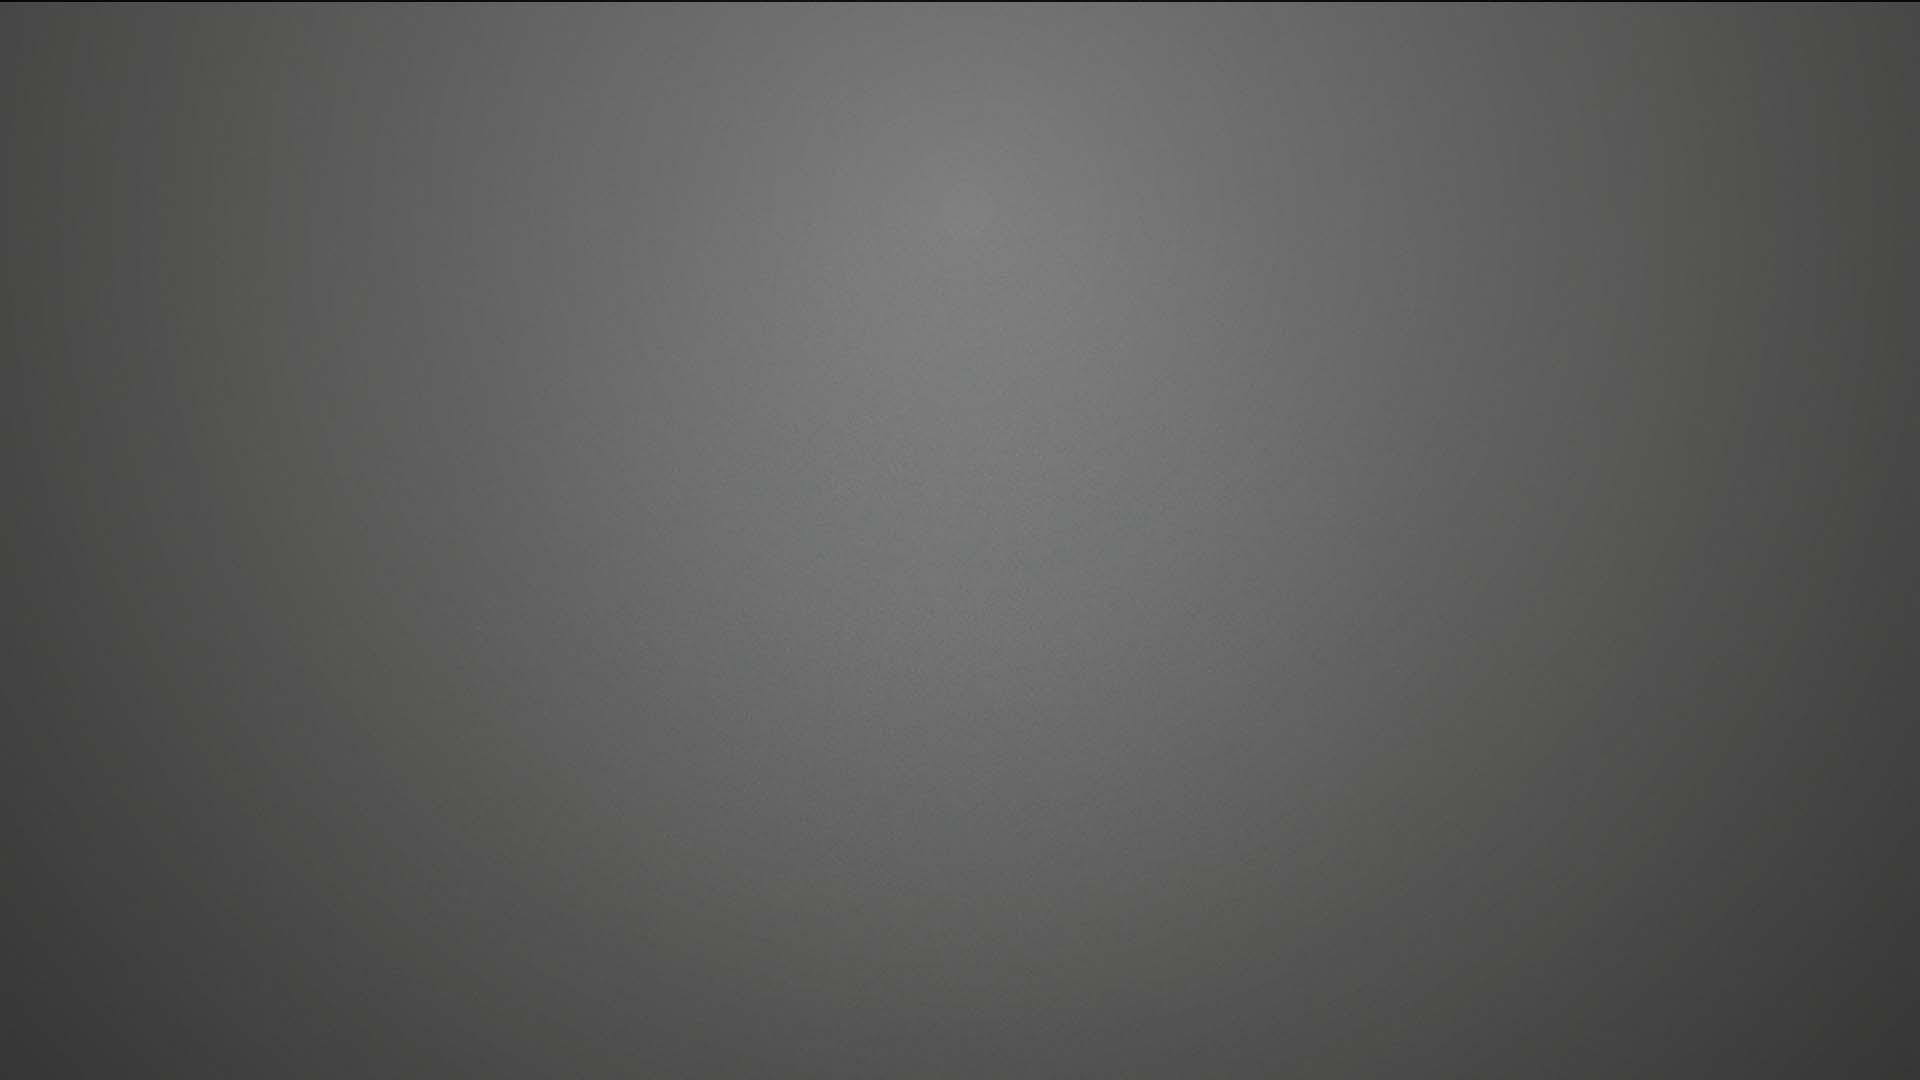
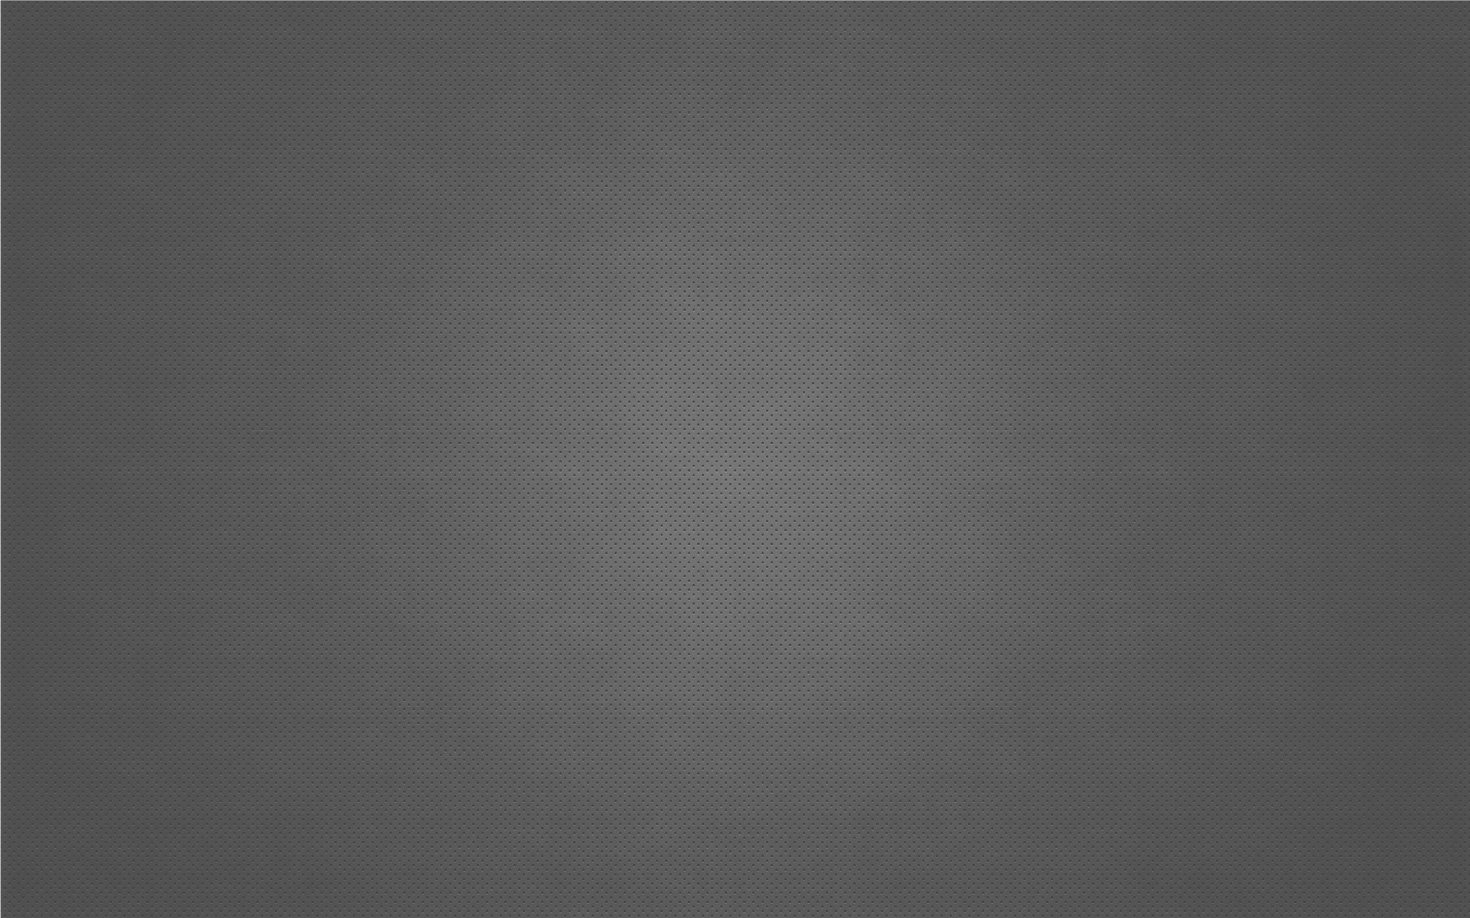
update progressing splash changes and fix major bugs

diff --git a/remenis/core/templates/splash.html b/remenis/core/templates/splash.html
@@ -1,29 +1,40 @@
 {% extends "remenis_base.html" %}
 
-        {% block inside_body %}
-        background="/static/homepage_background.jpg"
+        {% block head_extra %}
+        <style type="text/css">
+            .background {
+                background:					#000000 url(/static/homepage_background.jpg) no-repeat top center fixed;
+                -webkit-background-size:	cover;
+                -moz-background-size:		cover;
+                -o-background-size:			cover;
+                background-size:			cover;
+                background-clip:			border-box;
+                background-origin:			padding-box;
+            }
+        </style>
         {% endblock %}
 
         {% block splash %}
-        <div style="text-align: center; margin-left: auto; margin-right: auto; margin-bottom: 50px; width: 630px;">
+        <div style="text-align: center; margin-left: auto; margin-right: auto; margin-top: -20px; margin-bottom: 20px; width: 630px;">
             <img src="/static/remenis_logo.png"/>
         </div>
-        <div style="text-align: center; margin-left: auto; margin-right: auto; background: url('/static/homepage_box.png'); width: 630px; height: 462px;">
-            <br><br><br><br>
-            <p style="font-size: 36px; color: #FFFFFF;">A collection of your life stories.</p>
-            <br>
-            <p style="font-size: 25px; color: #FFFFFF; line-height:150%;">
+        <div style="text-align: center; margin-left: auto; margin-right: auto; background: url('/static/homepage_box.png'); width: 458px; height: 297px;">
+            <br><br>
+            <p style="font-size: 24px; color: #FFFFFF; margin-bottom: 20px">A collection of all your life stories.</p>
+            <p style="font-size: 18px; color: #FFFFFF; line-height:120%;">
             Invite your friends to share their<br>favorite stories about <i>you.</i>
             </p>
-            <br><br><br>
-            <p style="font-size: 25px; color: #808080; line-height:150%;">
+            <br><br>
+            <p style="font-size: 17px; color: #808080; line-height:150%;">
             Sign up now to get advanced notice and<br>become one of the private beta testers.
             </p>
-            <br>
             <form class="form-search" method="post" name="joinForm">
-                <input type="text" class="input-xlarge" name="email" placeholder="email address">
+                <input type="text" class="input-large" name="email" placeholder="email address">
                 <button type="submit" class="btn btn-primary btn-medium">&nbsp;Join&nbsp;</button>
             </form>
+        </div>
+        <div style="text-align: center; margin-left: auto; margin-right: auto; margin-top: 20px; width: 630px;">
+            <img src="/static/homepage_steps.png"/>
         </div>
         {% endblock %}
 

diff --git a/remenis/core/templates/profile.html b/remenis/core/templates/profile.html
@@ -14,13 +14,15 @@
         <div class="row-fluid">
             <a class="span1" href="/{{ story.authorid.fbid }}" style="margin-top: 10px; margin-right: -10px;"><img src="https://graph.facebook.com/{{ story.authorid.fbid }}/picture?type=square" height="50" width="50" style="border-radius: 5px; -moz-border-radius: 5px; -khtml-border-radius: 5px; -webkit-border-radius: 5px;" /></a>
             <!--story table-->
-            <table class="table table-bordered span7" style="margin-bottom: 40px">
+            <table class="table table-bordered span7" style="margin-bottom: 40px;">
                 <tr><td>
+                    <div align="right" style="width: 100%">
                     <p>
                         <a href="/{{ story.authorid.fbid }}"><strong>{{ story.authorid.full_name }}</strong></a>
                         <span style="color: grey;"> wrote </span>
                         <a href="/story/{{ story.id }}"><strong style="color: blue;">{{ story.title }}</strong></a>
                     </p>
+                    </div>
                     {% if story.authorid.fbid == userid %}
                     <div class="btn-group pull-right" style="margin-top: -30px;">
                         <a class="btn dropdown-toggle" data-toggle="dropdown" href="#">
@@ -49,7 +51,7 @@
                         </i></p>
                     </div>
                 </td></tr>
-                <!--comment form table row-->
+                <!--comment form table row
                 <tr><td>
                     <div style="color: grey; margin-top: 5px;">
                         <form action="/comment/" method="post" name="commentForm" onsubmit="return validateCommentForm(this)">
@@ -81,7 +83,7 @@
                             </div>
                         </form>
                     </div>
-                </td></tr>
+                </td></tr>-->
                 {% for dic_storyid, dic_storycomments in stories_comments_dictionary.items %}
                     {% ifequal dic_storyid story.id %}
                         {% for story_comment in dic_storycomments %}

diff --git a/remenis/core/templates/remenis_base.html b/remenis/core/templates/remenis_base.html
@@ -27,7 +27,7 @@
         </style>
         <link href="/static/css/bootstrap-responsive.css" rel="stylesheet" type="text/css"/>
     </head>
-    <body {% block inside_body %}{% endblock %}>
+    <body class="background" {% block inside_body %}{% endblock %}>
         {% block nav %}
         {% endblock %}
         

diff --git a/remenis/core/views.py b/remenis/core/views.py
@@ -120,11 +120,12 @@ def profile(request, profileid=""):
     except User.DoesNotExist:
         stories_written_by_user = []
         profile_name = getUserFullName(profileid)
+        stories_about_user = []
     else:    
         stories_written_by_user = Story.objects.filter(authorid = user)
         profile_name = user.full_name
-    
-    stories_about_user = [x.storyid for x in TaggedUser.objects.filter(taggeduserid=user)]
+        stories_about_user = [x.storyid for x in TaggedUser.objects.filter(taggeduserid=user)]
+        
     for story_written_by_user in stories_written_by_user:
         if not story_written_by_user in stories_about_user:
             stories_about_user.append(story_written_by_user)
@@ -279,7 +280,7 @@ def post(request):
                 tagged_user_to_save = TaggedUser(storyid=story, taggeduserid=tagged_user)
                 tagged_user_to_save.save()
 
-        return redirect('/profile/')
+        return redirect(request.META["HTTP_REFERER"])
 
 @csrf_exempt
 def delete(request):
